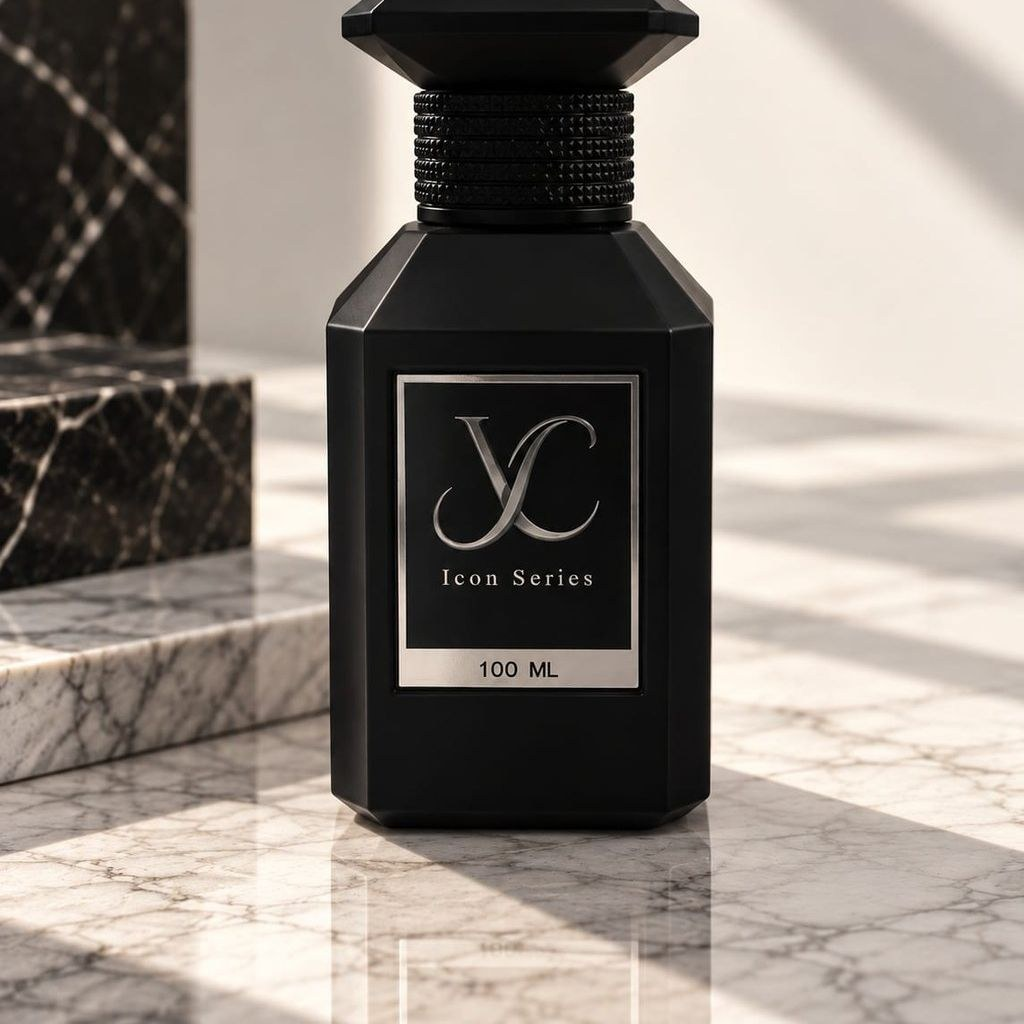
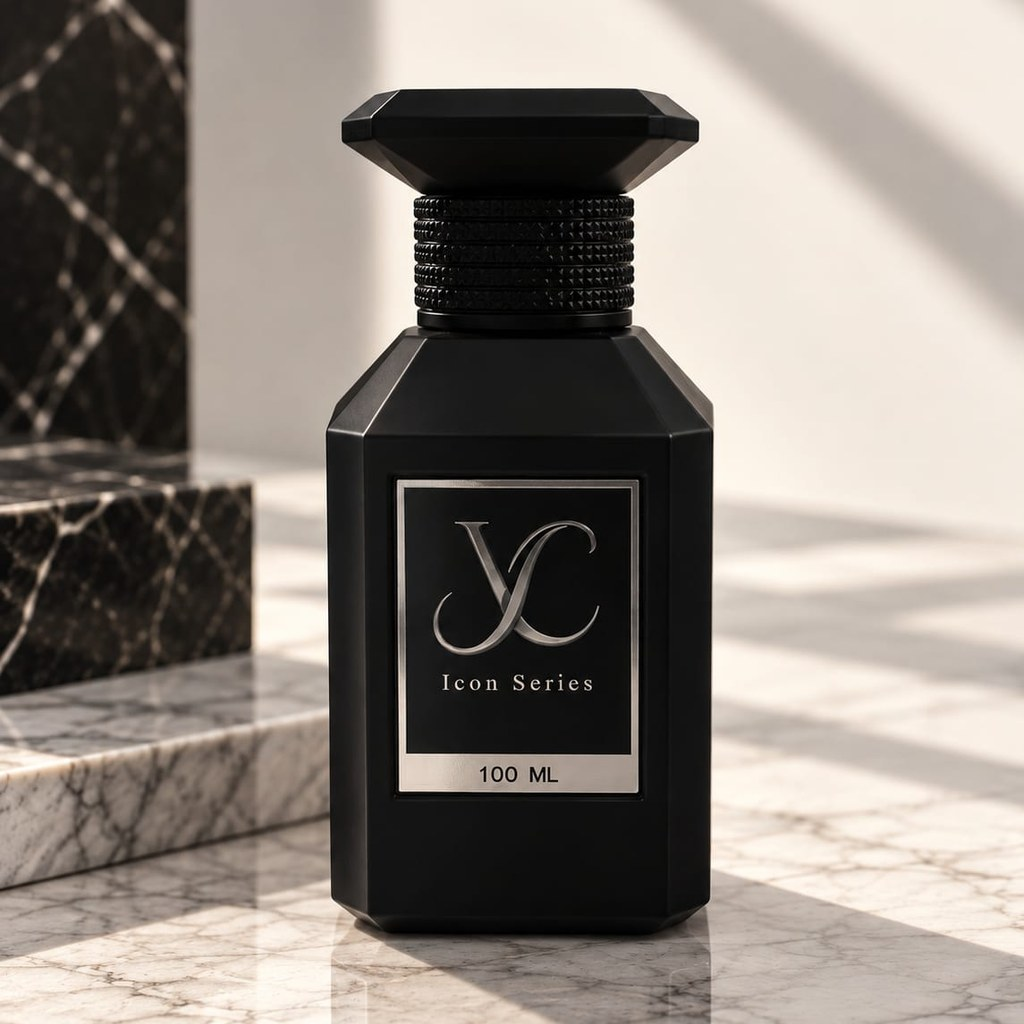
Fix nicho hombre/unisex bottle photo framing, cap was cut off
The first-pass automated crop (sharp.strategy.attention) picked
inconsistent framing for the nicho hombre and unisex bottle photos —
the cap was cropped flush against the top edge with zero headroom,
unlike the mujer photo which had generous headroom. The original
source photos had been deleted right after first use, so there was no
way to recover more headroom from the already-cropped 1024x1024
outputs.

Got the two original full-resolution photos re-sent and redid manual
centered crops matching the mujer photo's composition. Archived all
three nicho originals (mujer/hombre/unisex) under
formats/_icon-series-originals/ this time so this can't happen again.

Bumped fragrance-data.js cache version and added ?v=2 to the two
changed image paths, same pattern as the earlier disenador-hombre fix.

Claude-Session: https://claude.ai/code/session_01Gb7jNY6uT1dWXy1sbRGB6W

diff --git a/src/index.html b/src/index.html
@@ -236,7 +236,7 @@
   <link rel="prefetch" href="styles/format-rail.css?v=51">
   <link rel="prefetch" href="styles/decants.css?v=51">
   <link rel="prefetch" href="styles/coleccion.css?v=61">
-  <link rel="prefetch" href="scripts/fragrance-data.js?v=58">
+  <link rel="prefetch" href="scripts/fragrance-data.js?v=59">
   <link rel="prefetch" href="scripts/catalogo-data.js?v=53">
   <link rel="prefetch" href="scripts/catalogo.js?v=81">
 </head>
@@ -632,7 +632,7 @@
     </div>
   </div>
 
-  <script src="scripts/fragrance-data.js?v=58" defer></script>
+  <script src="scripts/fragrance-data.js?v=59" defer></script>
   <script src="scripts/search.js?v=53" defer></script>
   <script src="scripts/cart-drawer.js?v=12" defer></script>
   <script src="scripts/quiz.js?v=8" defer></script>

diff --git a/src/scripts/fragrance-data.js b/src/scripts/fragrance-data.js
@@ -644,8 +644,8 @@
     '100ml': 'assets/images/formats/frasco-100ml.webp',
     /* Nicho-only 100ml gender variants — see catalogo.js get100mlImage(). */
     '100ml-nicho-mujer':   'assets/images/formats/frasco-100ml-nicho-mujer.webp',
-    '100ml-nicho-hombre':  'assets/images/formats/frasco-100ml-nicho-hombre.webp',
-    '100ml-nicho-unisex':  'assets/images/formats/frasco-100ml-nicho-unisex.webp',
+    '100ml-nicho-hombre':  'assets/images/formats/frasco-100ml-nicho-hombre.webp?v=2',
+    '100ml-nicho-unisex':  'assets/images/formats/frasco-100ml-nicho-unisex.webp?v=2',
     '100ml-disenador-mujer':  'assets/images/formats/frasco-100ml-disenador-mujer.webp',
     '100ml-disenador-hombre': 'assets/images/formats/frasco-100ml-disenador-hombre.webp?v=2'
   };

diff --git a/src/carrito.html b/src/carrito.html
@@ -242,7 +242,7 @@
 
   <script src="scripts/search.js?v=53" defer></script>
   <script src="scripts/cart-drawer.js?v=12" defer></script>
-  <script src="scripts/fragrance-data.js?v=58" defer></script>
+  <script src="scripts/fragrance-data.js?v=59" defer></script>
   <script src="scripts/catalogo-data.js?v=53" defer></script>
   <script src="scripts/nav.js?v=57" defer></script>
   <script src="scripts/carrito.js?v=15" defer></script>

diff --git a/src/catalogo.html b/src/catalogo.html
@@ -367,7 +367,7 @@
     </svg>
   </button>
 
-  <script defer src="scripts/fragrance-data.js?v=58"></script>
+  <script defer src="scripts/fragrance-data.js?v=59"></script>
   <script defer src="scripts/nav.js?v=57"></script>
   <script defer src="scripts/scroll.js?v=51"></script>
   <script defer src="scripts/catalogo-data.js?v=53"></script>

diff --git a/src/catalogo-lab.html b/src/catalogo-lab.html
@@ -367,7 +367,7 @@
     </div>
   </div>
 
-  <script defer src="scripts/fragrance-data.js?v=58"></script>
+  <script defer src="scripts/fragrance-data.js?v=59"></script>
   <script defer src="scripts/nav.js?v=57"></script>
   <script defer src="scripts/scroll.js?v=51"></script>
   <script defer src="scripts/catalogo-data.js?v=53"></script>

diff --git a/src/faq.html b/src/faq.html
@@ -343,7 +343,7 @@
     </div>
   </div>
 
-  <script src="scripts/fragrance-data.js?v=58" defer></script>
+  <script src="scripts/fragrance-data.js?v=59" defer></script>
   <script src="scripts/search.js?v=53" defer></script>
   <script src="scripts/cart-drawer.js?v=12" defer></script>
   <script src="scripts/wa-float.js" defer></script>

diff --git a/src/guia.html b/src/guia.html
@@ -741,7 +741,7 @@
     </div>
   </div>
 
-  <script src="scripts/fragrance-data.js?v=58" defer></script>
+  <script src="scripts/fragrance-data.js?v=59" defer></script>
   <script src="scripts/search.js?v=53" defer></script>
   <script src="scripts/cart-drawer.js?v=12" defer></script>
   <script src="scripts/quiz.js?v=8" defer></script>

diff --git a/src/perfumista.html b/src/perfumista.html
@@ -575,7 +575,7 @@
     </div>
   </div>
 
-  <script src="scripts/fragrance-data.js?v=58" defer></script>
+  <script src="scripts/fragrance-data.js?v=59" defer></script>
   <script src="scripts/search.js?v=53" defer></script>
   <script src="scripts/cart-drawer.js?v=12" defer></script>
   <script src="scripts/wa-float.js" defer></script>

diff --git a/src/proceso.html b/src/proceso.html
@@ -414,7 +414,7 @@
     </div>
   </div>
 
-  <script src="scripts/fragrance-data.js?v=58" defer></script>
+  <script src="scripts/fragrance-data.js?v=59" defer></script>
   <script src="scripts/search.js?v=53" defer></script>
   <script src="scripts/cart-drawer.js?v=12" defer></script>
   <script src="scripts/wa-float.js" defer></script>

diff --git a/src/personalizacion.html b/src/personalizacion.html
@@ -1206,7 +1206,7 @@
     </div>
   </div>
 
-  <script src="scripts/fragrance-data.js?v=58" defer></script>
+  <script src="scripts/fragrance-data.js?v=59" defer></script>
   <script src="scripts/nav.js?v=57" defer></script>
   <script src="scripts/scroll.js?v=51" defer></script>
   <script src="scripts/search.js?v=53" defer></script>

diff --git a/src/admin.html b/src/admin.html
@@ -885,7 +885,7 @@
     </svg>
   </button>
 
-  <script src="scripts/fragrance-data.js?v=58"></script>
+  <script src="scripts/fragrance-data.js?v=59"></script>
   <script src="scripts/catalogo-data.js?v=53"></script>
   <script src="scripts/admin.js?v=29"></script>
   <!-- PWA install bottom sheet -->
